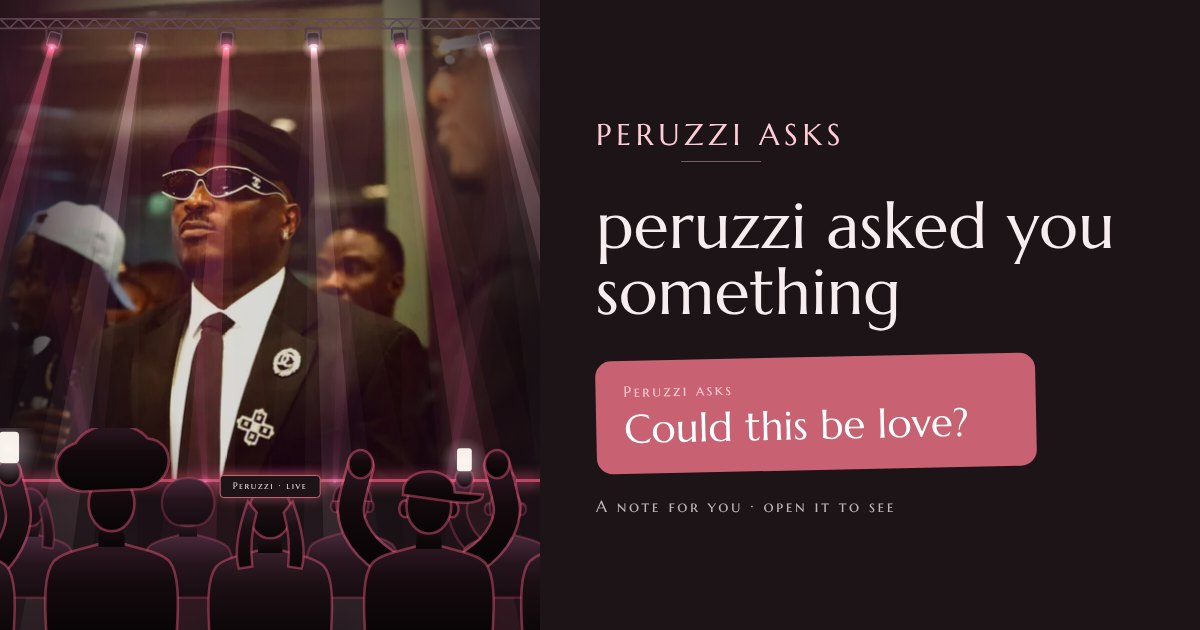
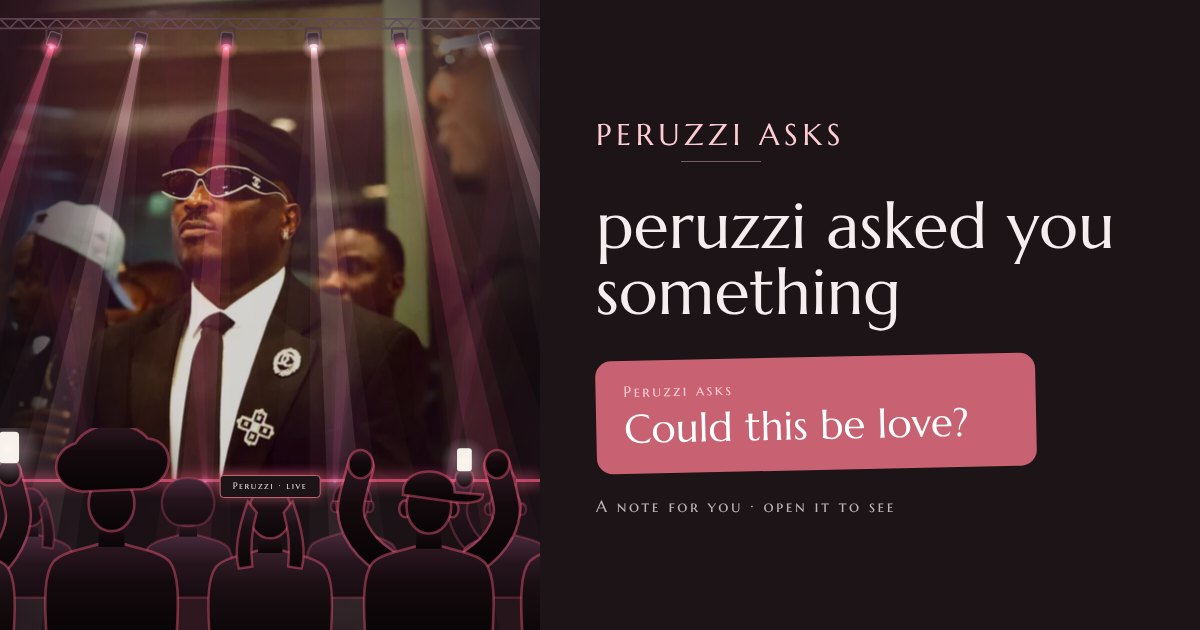
The lights keep to the song's beat, whatever the move
- The beat grid, measured again: 103 BPM with the first beat at 0.341 s. The old one
  (102.97 BPM, 0.277 s) was timed from the start of each analysis window rather than its
  middle, so the lights ran 50-65 ms ahead of the song. The drums now land within 2 ms
  of the grid through the whole clip.
- The song's clock is smoothed between the audio element's readings, and shared by the
  crowd and the lights.
- Every move is a place for each head on every beat, so the heads land on the beat
  however the moves change: a swing eases into the next beat's place, a snap whips
  across to land on it. Seven moves, changing on a bar's first beat; every beat is the
  brightest moment.
- The song's shape: a hit of white where each section starts, the beams closing on
  Peruzzi and going dark for the break before the drop, and the drop hitting hardest.
- Sending a note with its card no longer races the card being drawn again: the card
  was redrawn 2.6 s after every note (a wrong key), and the share now waits a moment
  for a card still being drawn.
- Tests check the lights land on the beat and keep the song's time; README updated.

Claude-Session: https://claude.ai/code/session_0181Giyin99RTao5ZYeujQcC

diff --git a/apps/web/src/components/LightRig.tsx b/apps/web/src/components/LightRig.tsx
@@ -1,5 +1,5 @@
 import { RefObject, useEffect, useRef } from 'react';
-import { beatAt } from '../lib/beat';
+import { beatAt, BREAK, inBreak, partAt, SECTIONS } from '../lib/beat';
 
 type RGB = readonly [number, number, number];
 /** The lights' colours: the site's rose, blush and petal as light (brighter than they are on paper), with a warm white,
@@ -8,7 +8,8 @@ const L: Record<string, RGB> = {
   rose: [255, 92, 134], blush: [255, 196, 210], petal: [255, 150, 176], warm: [255, 230, 205],
   amber: [255, 168, 92], magenta: [228, 72, 160], violet: [150, 110, 255],
 };
-/** A look: the truss's two colours (every other head) and the floor's. A new one every two bars. */
+/** A look: the truss's two colours (every other head) and the floor's. A new one with each part of the song, and every
+ *  two bars within it. */
 const LOOKS: [RGB, RGB, RGB][] = [
   [L.rose, L.blush, L.magenta], [L.warm, L.rose, L.amber], [L.magenta, L.violet, L.rose],
   [L.petal, L.warm, L.rose], [L.amber, L.rose, L.violet], [L.violet, L.blush, L.magenta],
@@ -25,15 +26,25 @@ const TAU = Math.PI * 2;
 const mod = (a: number, n: number) => ((a % n) + n) % n;
 const ease = (k: number) => k * k * (3 - 2 * k);
 const rgba = (c: RGB, a: number) => `rgba(${c[0]},${c[1]},${c[2]},${Math.max(0, Math.min(1, a)).toFixed(3)})`;
+/** a number from 0 to 1 that looks random, the same every time for the same beat and head */
+const hash = (k: number) => { const v = Math.sin(k * 12.9898) * 43758.5453; return v - Math.floor(v); };
+/** the order a chase lights the heads in, a mirrored pair a beat (0 is the outside pair): in, and back out */
+const CHASE = [0, 1, 2, 1];
 
-/** What the heads do, a phrase (four bars) at a time. Each gives a head's swing, in degrees off its aim (to the right
- *  when positive), and how bright it is. */
-const MOVES: ((b: number, i: number, x: number) => [number, number])[] = [
-  (b) => [30 * Math.sin((TAU * b) / 8), 1],                                                   // all together, side to side
-  (b, _i, x) => [(x - 0.5) * 76 * (0.5 - 0.5 * Math.cos((TAU * b) / 4)), 1],                 // fanning out and back, a bar each
-  (b, i) => [(i % 2 ? 1 : -1) * 26 * Math.sin((TAU * b) / 4), 1],                            // crossing over
-  (b, i) => [24 * Math.sin(TAU * (b / 4 - i / 6)), 1],                                       // a wave along the rig
-  (b, i) => [16 * Math.sin((TAU * b) / 16 + i), mod(Math.floor(b), HEADS.length) === i ? 1 : 0.16],   // a chase, a beat each
+/** What the heads do, one move to each part of the song. A move says where each head points on every beat, in degrees
+ *  off its aim (to the right when positive; `mid` is what points it at Peruzzi), and how bright it is from that beat
+ *  on. Every move lands on the beat, however it gets there: a swing leaves one beat's place as the beat goes and
+ *  eases into the next one's right on the next beat, as the crowd sways; a snap holds its place, then whips across to
+ *  land on the next beat. */
+type Move = { at: (n: number, i: number, x: number, mid: number) => number; lit?: (n: number, i: number) => number; snap?: boolean };
+const MOVES: Move[] = [
+  { at: (n) => (n % 2 ? 26 : -26) },                                                            // all together, a side a beat
+  { at: (n, _i, x) => (x - 0.5) * (n % 2 ? 14 : 84), snap: true },                              // fanning out on one and three, in on two and four
+  { at: (n, i) => (i % 2 ? 1 : -1) * (n % 2 ? 24 : -24), lit: (n, i) => ((n + i) % 2 ? 1 : 0.4) },   // crossing over, every other head bright in turn
+  { at: (n, i) => 24 * Math.sin(TAU * (n / 4 - i / 6)) },                                         // a wave rolling along the rig, a step a beat
+  { at: (n, i) => ((n + i) % 2 ? 16 : -16), lit: (n, i) => (CHASE[mod(n, 4)] === Math.min(i, HEADS.length - 1 - i) ? 1 : 0.15), snap: true },   // a chase
+  { at: (n, i, _x, mid) => (mod(n, 4) === 0 ? mid : 56 * hash(n * 7 + i * 13) - 28), snap: true },  // all on Peruzzi on the one, scattered between
+  { at: (n, i, x) => (n % 2 ? (x - 0.5) * 84 : (i % 2 ? 1 : -1) * 22), snap: true },             // fanned out, then crossed, a beat each: the drop
 ];
 
 /** Smoke for the light to show up in: a tile of soft noise, made once. */
@@ -62,8 +73,10 @@ function hazeTile() {
 /** The stage's lights, on two canvases over the photo. Behind, the rig: a truss across the top with its moving heads,
  *  each turned to where its beam goes. In front, the light, added to the picture as light is: the beams from the heads
  *  and from the floor through the haze, the wash on the back wall, the lenses' glare, a warm spot on Peruzzi, and a
- *  hit of white at the top of each phrase. It all follows the song: the heads change what they do every four bars and
- *  the colours every two, swell on each beat and jump on each bar's first. Between songs they drift at half the tempo,
+ *  hit of white where each section of the song starts. It all keeps to the song's beat (see lib/beat.ts): every move
+ *  lands on a beat, every beat is the brightest moment, each bar's first brighter still, and the moves and colours
+ *  change on a bar's first beat, with each part of the song. For the break before the drop, the beams close in on
+ *  Peruzzi and go dark but for a flash on each beat; the drop hits hardest. Between songs they drift at half the tempo,
  *  dimmer; with reduced motion, or `still`, they hold one look. The look's colour is set on `room` as `--rim` and
  *  `--led`, for the crowd's outlines and the stage's LED strip; `kick` makes them all jump (the crash, a tap on the mic). */
 export function LightRig({ room, kick, still = false }: { room: RefObject<HTMLElement>; kick: RefObject<{ at: number; s: number }>; still?: boolean }) {
@@ -105,34 +118,44 @@ export function LightRig({ room, kick, still = false }: { room: RefObject<HTMLEl
     const draw = (now: number) => {
       if (!w || !h) return;
       const s = w / 400;
-      const { beats, live } = beatAt();
+      const { beats, live } = beatAt(now);
       const go = live && moving;
       // the time, in beats: the song's while it plays; a slower clock between songs; one moment held when still
       const b = !moving ? 2 : live ? beats : beats * 0.5;
-      const phrase = Math.floor(b / 16), into = b - phrase * 16;
-      const k = moving ? ease(Math.min(1, into / 2)) : 1;   // two beats to move from the last phrase's moves to this one's
-      const now_ = moving ? MOVES[mod(phrase, MOVES.length)] : MOVES[1], last = moving ? MOVES[mod(phrase - 1, MOVES.length)] : now_;
-      const lookN = moving ? mod(Math.floor(b / 8), LOOKS.length) : 0; const look = LOOKS[lookN];
+      const n = Math.floor(b), f = b - n;   // the beat just gone, and how far on from it
+      const part = partAt(b, go);
+      const lookN = moving ? mod(part.index * 3 + Math.floor((b - part.start) / 8), LOOKS.length) : 0; const look = LOOKS[lookN];
       if (lookN !== lookAt) { lookAt = lookN; const c = `rgb(${look[0].join(' ')})`; box.style.setProperty('--rim', c); box.style.setProperty('--led', c); }
-      const pulse = go ? Math.exp(-mod(b, 1) * 4) : 0;       // each beat
-      const downbeat = go ? Math.exp(-mod(b, 4) * 3) : 0;    // each bar's first
-      const hit = go ? Math.exp(-into * 14) : 0;             // the top of each phrase
+      const dark = go && inBreak(b);                              // the break before the drop
+      const pulse = go ? Math.exp(-f * 5) : 0;                    // each beat
+      const downbeat = go && mod(n, 4) === 0 ? Math.exp(-f * 3) : 0;   // each bar's first
+      // a hit of white where each section starts, the drop hardest
+      const hit = go && SECTIONS.includes(part.start) && b - part.start < 1 ? Math.exp(-(b - part.start) * 12) * (part.start === BREAK[1] ? 1.7 : 1) : 0;
       const kk = kick.current; const boost = moving && kk?.at ? kk.s * Math.exp(-(now - kk.at) / 260) : 0;
-      // the floor lights come in every other phrase
-      const odd = (p: number) => (mod(p, 2) ? 1 : 0);
-      const floorOn = moving ? odd(phrase - 1) + (odd(phrase) - odd(phrase - 1)) * k : 0.8;
 
-      // where each head points, and how bright
+      // where each head points on a beat: the move of the part that beat is in (in the break, at Peruzzi)
       const y0 = Math.max(3, h * 0.03), th = Math.max(5, 7 * s), hw = Math.max(7, 9 * s), hh = Math.max(8, 11 * s);
       const pivot = y0 + th + hh * 0.5 + 3 * s;
+      const aim = (x: number) => (0.5 - x) * 36;
+      const mid = (x: number) => (Math.atan2((0.5 - x) * w, h * 0.42 - pivot) * 180) / Math.PI - aim(x);
+      const moveOn = (k: number) => (moving ? MOVES[mod(partAt(k, go).index, MOVES.length)] : MOVES[1]);
+      const target = (k: number, i: number, x: number) => (go && inBreak(k) ? mid(x) : moveOn(k).at(k, i, x, mid(x)));
+      // and on its way to the next beat's place: a swing or a snap, as the next beat's move goes (into the break, and
+      // into each section, a snap)
+      const snap = !moving ? false : (go && (inBreak(n + 1) || SECTIONS.includes(n + 1))) || !!moveOn(n + 1).snap;
+      const t = !moving ? 0 : snap ? (f < 0.55 ? 0 : ((f - 0.55) / 0.45) ** 3) : 0.5 - 0.5 * Math.cos(Math.PI * f);
       const heads = HEADS.map((x, i) => {
-        const [p1, l1] = last(b, i, x), [p2, l2] = now_(b, i, x);
-        const pan = ((0.5 - x) * 36 + p1 + (p2 - p1) * k) * (Math.PI / 180);
-        const level = l1 + (l2 - l1) * k;
-        const I = !moving ? 0.75 : go ? Math.min(1.25, level * (0.55 + 0.35 * pulse + 0.2 * downbeat) + 0.5 * boost) : level * 0.5 + 0.5 * boost;
+        const from = target(n, i, x), to = target(n + 1, i, x);
+        const pan = (aim(x) + from + (to - from) * t) * (Math.PI / 180);
+        const level = moveOn(n).lit?.(n, i) ?? 1;
+        const I = !moving ? 0.75
+          : !go ? level * 0.5 + 0.5 * boost
+          : dark ? 0.1 + 0.7 * Math.exp(-f * 8)
+          : Math.min(1.25, level * (0.5 + 0.45 * pulse + 0.2 * downbeat) + 0.5 * boost);
         const dx = Math.sin(pan), dy = Math.cos(pan);
         return { cx: x * w, pan, dx, dy, ox: x * w + dx * hh * 0.55, oy: pivot + dy * hh * 0.55, I, c: i % 2 ? look[1] : look[0] };
       });
+      if (import.meta.env.DEV) (light as any).__frame = { b, live: go, pans: heads.map((hd) => hd.pan), lit: heads.map((hd) => hd.I) };
 
       // the rig: the truss, each head hanging in its yoke, turned to its beam, its lens lit
       r.setTransform(dpr, 0, 0, dpr, 0, 0); r.clearRect(0, 0, w, h * RIG);
@@ -155,16 +178,22 @@ export function LightRig({ room, kick, still = false }: { room: RefObject<HTMLEl
       l.setTransform(dpr, 0, 0, dpr, 0, 0);
       l.globalCompositeOperation = 'source-over'; l.clearRect(0, 0, w, h);
       l.globalCompositeOperation = 'lighter';
-      const wash = !moving ? 0.2 : 0.16 + 0.14 * pulse + 0.08 * downbeat + 0.15 * boost;
+      const wash = !moving ? 0.2 : dark ? 0.04 : 0.16 + 0.14 * pulse + 0.08 * downbeat + 0.15 * boost;
       glow(w * 0.14, h * 0.02, w * 0.62, look[0], wash);
       glow(w * 0.86, h * 0.02, w * 0.62, look[1], wash);
       for (const hd of heads) beam(hd.ox, hd.oy, hd.dx, hd.dy, h * 1.3, 2.2 * s, hd.c, hd.I);
+      // the floor lights, in every other part and for the drop: leaning across each other a beat at a time, every other
+      // one bright in turn
       const floorY = h * 0.765;
+      const floorOn = !moving ? 0.8 : dark ? 0 : mod(part.index, 2) || (go && part.start === BREAK[1]) ? 1 : 0;
+      const sway = (k: number, j: number) => (moving ? ((k + j) % 2 ? 12 : -12) : 0);
+      const tf = moving ? 0.5 - 0.5 * Math.cos(Math.PI * f) : 0;
       const floor = FLOOR.map((x, j) => {
-        const lean = ((x - 0.5) * 30 + (moving ? 14 * Math.sin(TAU * (b / 8 + j * 0.25)) : 0)) * (Math.PI / 180);
-        return { x: x * w, dx: Math.sin(lean), dy: -Math.cos(lean), I: floorOn * (go ? 0.42 + 0.3 * pulse : 0.4) + 0.3 * boost };
+        const lean = ((x - 0.5) * 30 + sway(n, j) + (sway(n + 1, j) - sway(n, j)) * tf) * (Math.PI / 180);
+        const I = floorOn * (go ? (mod(n + j, 2) ? 0.85 : 0.35) * (0.45 + 0.55 * pulse) : 0.4) + 0.3 * boost;
+        return { x: x * w, dx: Math.sin(lean), dy: -Math.cos(lean), I };
       });
-      for (const f of floor) if (f.I > 0.01) beam(f.x, floorY, f.dx, f.dy, h * 0.95, 1.8 * s, look[2], f.I * 0.7);
+      for (const fl of floor) if (fl.I > 0.01) beam(fl.x, floorY, fl.dx, fl.dy, h * 0.95, 1.8 * s, look[2], fl.I * 0.7);
       // the haze the beams show up in, drifting
       if (haze) {
         try { haze.setTransform(new DOMMatrix([2, 0, 0, 2, -mod(now * 0.012, 512), -mod(now * 0.004, 512)])); } catch {}
@@ -172,9 +201,9 @@ export function LightRig({ room, kick, still = false }: { room: RefObject<HTMLEl
         l.globalCompositeOperation = 'lighter';
       }
       for (const hd of heads) flare(hd.ox, hd.oy, 9 * s, hd.c, Math.min(1, hd.I));
-      for (const f of floor) if (f.I > 0.01) flare(f.x, floorY, 6 * s, look[2], Math.min(1, f.I));
-      // the warm spot on Peruzzi
-      glow(w * 0.5, h * 0.4, w * 0.3, L.warm, 0.07 + 0.04 * pulse, 1.25);
+      for (const fl of floor) if (fl.I > 0.01) flare(fl.x, floorY, 6 * s, look[2], Math.min(1, fl.I));
+      // the warm spot on Peruzzi, alone in the break
+      glow(w * 0.5, h * 0.4, w * 0.3, L.warm, dark ? 0.12 + 0.12 * pulse : 0.07 + 0.04 * pulse, 1.25);
       // a hit of white
       const white = 0.2 * hit + 0.16 * boost;
       if (white > 0.005) { l.fillStyle = `rgba(255,238,226,${Math.min(0.5, white).toFixed(3)})`; l.fillRect(0, 0, w, h); }

diff --git a/apps/web/src/lib/beat.ts b/apps/web/src/lib/beat.ts
@@ -1,18 +1,52 @@
 import { RefObject, useEffect } from 'react';
 import { sound } from './sound';
 
-/** Inferno's beat, measured from the song file (public/media/audio/inferno.mp3): 102.97 beats a minute, the first at
- *  0.277 s, steady through the whole clip. Measure again if the file changes. */
-export const BPM = 102.97;
-export const FIRST_BEAT = 0.277;
+/** Inferno's beat, measured from the song file (public/media/audio/inferno.mp3): 103 beats a minute, the first at
+ *  0.341 s, steady through the whole clip (its drums land within 2 ms of it from start to finish). Measure again if
+ *  the file changes. */
+export const BPM = 103;
+export const FIRST_BEAT = 0.341;
 const BEAT = 60 / BPM;
+/** The clip's shape, in beats from the first (four to a bar, and beat 0 starts one): where its sections start, which
+ *  the lights hit, and the break before the drop, two beats with little in them but a hit on each, when the lights go
+ *  dark. Measure these again too if the file changes. */
+export const SECTIONS = [8, 32, 48, 64, 68];
+export const BREAK: readonly [number, number] = [66, 68];
 
-/** Where the song is, in beats from its first, and whether that's the song's own time: while it isn't playing, a clock
- *  at its tempo stands in. */
-export function beatAt() {
-  const t = sound.songTime();
-  return t != null ? { beats: (t - FIRST_BEAT) / BEAT, live: true } : { beats: performance.now() / 1000 / BEAT, live: false };
+/** The song's clock, smoothed. An audio element's time can move in steps, so between its readings the frame clock
+ *  carries it on, each new reading nudging it back on course; a reading out by more than a few hundredths (the loop
+ *  back to the start, a seek) moves it straight there, and a song stuck on the network holds it where it stopped. */
+let clock: { raw: number; t: number; at: number } | null = null;
+function songClock(now: number) {
+  const raw = sound.songTime();
+  if (raw == null) { clock = null; return null; }
+  if (!clock) { clock = { raw, t: raw, at: now }; return raw; }
+  const est = clock.t + (now - clock.at) / 1000;
+  if (raw !== clock.raw) {
+    const off = raw - est;
+    clock = Math.abs(off) > 0.12 ? { raw, t: raw, at: now } : { raw, t: est + off * 0.25, at: now };
+    return clock.t;
+  }
+  return Math.min(est, raw + 0.3);
 }
+
+/** Where the song is at `now` (a frame's time), in beats from its first, and whether that's the song's own time: while
+ *  it isn't playing, a clock at its tempo stands in. */
+export function beatAt(now = performance.now()) {
+  const t = songClock(now);
+  return t != null ? { beats: (t - FIRST_BEAT) / BEAT, live: true } : { beats: now / 1000 / BEAT, live: false };
+}
+
+/** The part of the song beat `b` is in, numbered from the start, and the beat it started on: a new part at each of the
+ *  song's sections and every four bars between them. Without the song (`live` false), simply every four bars. */
+export function partAt(b: number, live: boolean) {
+  const p = Math.floor(b / 16);
+  let index = p, start = p * 16;
+  if (live && b >= 0) for (const s of SECTIONS) if (s <= b) { if (s % 16) index++; if (s > start) start = s; }
+  return { index, start };
+}
+/** whether beat `b` of the song is in the break before the drop */
+export const inBreak = (b: number) => b >= BREAK[0] && b < BREAK[1];
 
 /** Keeps the room moving to the song: on `ref`'s element, every frame, `--sa` and `--sb` (how far the crowd leans,
  *  one way on a beat and back the other way on the next, the second group a touch behind the first), `--bob` (how
@@ -24,8 +58,8 @@ export function useBeat(ref: RefObject<HTMLElement>, still = false) {
     const el = ref.current;
     if (!el || still || window.matchMedia('(prefers-reduced-motion: reduce)').matches) return;
     let raf = 0;
-    const frame = () => {
-      const { beats, live } = beatAt();
+    const frame = (now: number) => {
+      const { beats, live } = beatAt(now);
       const amp = live ? 1 : 0.55;
       const lean = (b: number) => Math.cos(Math.PI * b) * 4.5 * amp;
       el.style.setProperty('--sa', `${lean(beats).toFixed(2)}deg`);

diff --git a/apps/web/src/screens/asked/Asked.tsx b/apps/web/src/screens/asked/Asked.tsx
@@ -185,6 +185,13 @@ export default function Asked() {
     if (!k?.file) { say('One moment, Peruzzi is signing it…'); return null; }
     return k.file;
   };
+  /** the card to send with a note: at once if it's drawn, or as soon as it is, waiting a moment at most so the share
+   *  sheet still opens from the tap */
+  const cardSoon = (n: NoteInfo) => {
+    const k = cards.current.get(n.id);
+    if (!k) return Promise.resolve(null);
+    return k.file ? Promise.resolve(k.file) : Promise.race([k.ready.catch(() => null), new Promise<null>((r) => window.setTimeout(() => r(null), 700))]);
+  };
   const noteUrl = (n: NoteInfo) => `${location.origin}/q/${n.code}`;
   const actions = {
     onSave: async (n: NoteInfo) => { const f = cardFor(n); if (f) { sound.keepThrough(); const r = await saveFile(f); track('note_save', { how: r }); } },
@@ -222,7 +229,8 @@ export default function Asked() {
         onAsked={(n) => {
           setNotebook((d) => (d && !d.notes.some((k) => k.id === n.id) ? { ...d, left: Math.max(0, d.left - 1), notes: [...d.notes, n] } : d)); store.setNotebook({ id: notebook.id, token: token.current });
           // the cards are drawn once the note has landed: drawing them holds up the phone, and the reading is on
-          window.setTimeout(() => (cards.current.has(`${n.id}:`) ? upload(n) : prepare(n)), 2600);
+          // (one already drawn, for a note sent straight away, is kept: only the square still goes up)
+          window.setTimeout(() => (cards.current.has(n.id) ? upload(n) : prepare(n)), 2600);
         }}
         onNext={next}
         onNotes={out}
@@ -246,7 +254,7 @@ export default function Asked() {
   return (
     <div className="min-h-dvh bg-ink">
       {screen}
-      {send && notebook && <SendSheet open={!!send} onClose={() => setSend(null)} notebook={{ id: notebook.id, token: token.current }} note={send} card={() => cards.current.get(send.id)?.file ?? null} nameplate={cfg.nameplate}
+      {send && notebook && <SendSheet open={!!send} onClose={() => setSend(null)} notebook={{ id: notebook.id, token: token.current }} note={send} card={() => cardSoon(send)} nameplate={cfg.nameplate}
         defaultName={notebook.name || store.name() || ''} onName={(nm) => setNotebook((d) => (d ? { ...d, name: d.name || nm } : d))} email={cfg.email}
         onSent={() => setNotebook((d) => (d ? { ...d, notes: d.notes.map((k) => (k.id === send.id ? { ...k, sent: true } : k)) } : d))} />}
       <MusicPill />

diff --git a/apps/web/src/screens/asked/SendSheet.tsx b/apps/web/src/screens/asked/SendSheet.tsx
@@ -18,8 +18,8 @@ const mask = (e: string) => { const [u, d] = e.split('@'); return `${u.slice(0, 
  *  on the address this page is on, so it opens wherever the site does. */
 export function SendSheet({ open, onClose, notebook, note, card, nameplate, defaultName, onName, onSent, email }: {
   open: boolean; onClose: () => void; notebook: { id: string; token: string }; note: NoteInfo;
-  /** the note's story card, once it's drawn (it goes with the link) */
-  card: () => File | null;
+  /** the note's story card (it goes with the link), or nothing if it isn't drawn in time */
+  card: () => Promise<File | null>;
   nameplate: string; defaultName: string; onName: (n: string) => void; onSent: () => void; email: boolean;
 }) {
   const [step, setStep] = useState<Step>('names');
@@ -59,7 +59,7 @@ export function SendSheet({ open, onClose, notebook, note, card, nameplate, defa
         <div className="mt-5 flex flex-col gap-2.5">
           {/* the card and the link together, through the phone's share sheet (just the link where it can't take a picture) */}
           <button onClick={async () => {
-            sound.keepThrough(); const r = await shareFile(card(), words(), link);
+            sound.keepThrough(); const r = await shareFile(await card(), words(), link);
             track('note_share', { via: 'native', how: r }); if (r === 'copied') setMsg('Copied. Paste it to them anywhere.');
           }} className="flex min-h-[54px] items-center justify-center gap-2.5 rounded-xl bg-rose text-[17px] font-semibold text-white transition-colors hover:bg-rose-deep"><ShareNetworkIcon size={21} weight="bold" /> Send it with the card</button>
           <a href={`https://wa.me/?text=${encodeURIComponent(text(link))}`} target="_blank" rel="noreferrer" onClick={() => track('note_share', { via: 'whatsapp' })}

diff --git a/README.md b/README.md
@@ -30,8 +30,11 @@ There's no front page: the site opens on a note, ready to write. Each screen has
 Back from a note's page is your notes, and back from your notes is a new note.
 
 - **The stage.** Peruzzi in the light, seen from the back of the room: a truss across the top with six moving heads, four lights on the stage floor, the stage's front edge with its LED strip and nameplate ("Peruzzi · live"), and the crowd in front: two rows of people seen from behind (afros, braids, a gele, a cap, a bun), shoulders and arms, a few phones up, outlined in whatever colour the lights are. The show opens with the room settling and a finger on the mic, twice ("Make some noise! Who's on your mind tonight?" when the stage has a voice). The crowd reacts out loud ("Awww.", "Ooooh.", laughter, a cheer) as the notes land.
-  - **The light show** (`apps/web/src/components/LightRig.tsx`, two canvases over the photo). The heads hang in their yokes and turn to where their beams go: narrow beams with soft edges through a drifting haze, brightest at the lens, with a glare on each lens, a wash on the back wall, and a warm spot on Peruzzi. Every four bars the heads change what they do (sweeping together, fanning out and back, crossing over, a wave along the rig, a chase); every two bars the colours change (rose, blush and petal as light, against warm white, amber, magenta or violet), and the LED strip and the crowd's outlines change with them. The beams swell on every beat, jump on each bar's first, and a hit of white opens each phrase; the floor lights come in every other phrase. The drummer's crash and the mic taps make it all jump. Before the song starts, the lights drift at half the tempo, dimmer; with reduced motion, they hold one look.
-  - **On the beat.** The crowd sways left and right with the song: a lean one way on each beat and back the other way on the next, a little dip on the beat, the back row a touch behind the front. The beat is the song's own: `apps/web/src/lib/beat.ts` reads where the song is (102.97 beats a minute, the first at 0.277 s, measured from `inferno.mp3`; measure again if the file changes), for the crowd and the lights alike. Before the song starts, the crowd keeps its tempo, more gently; with reduced motion, it stands still.
+  - **The light show** (`apps/web/src/components/LightRig.tsx`, two canvases over the photo). The heads hang in their yokes and turn to where their beams go: narrow beams with soft edges through a drifting haze, brightest at the lens, with a glare on each lens, a wash on the back wall, and a warm spot on Peruzzi. The colours change every two bars (rose, blush and petal as light, against warm white, amber, magenta or violet), and the LED strip and the crowd's outlines change with them.
+  - **Always on the beat, whatever the move.** Every move is a place for each head on every beat, so however the moves change, the heads land on the beat: a *swing* leaves one beat's place as the beat goes and eases into the next one's right on the next beat (with the crowd's sway); a *snap* holds, then whips across to land on the next beat. There are seven moves (all together a side a beat; fanning out on one and three and in on two and four; crossing over, every other head bright in turn; a wave rolling along the rig; a chase from the outside in; every beam on Peruzzi on the one, scattered between; fanned out, then crossed), one to each part of the song, changing on a bar's first beat. Every beat is the lights' brightest moment, each bar's first brighter still; the floor lights lean across each other a beat at a time, in every other part.
+  - **The song's shape.** A new part starts at each of the song's sections and every four bars between them, with a hit of white where a section starts. For the two-beat break before the drop, the beams close in on Peruzzi and go dark but for a flash on each beat, his spot alone; the drop hits hardest.
+  - The drummer's crash and the mic taps make it all jump. Before the song starts, the lights drift at half the tempo, dimmer; with reduced motion, they hold one look.
+  - **On the beat.** The crowd sways left and right with the song: a lean one way on each beat and back the other way on the next, a little dip on the beat, the back row a touch behind the front. The beat is the song's own, and the crowd and the lights share it. `apps/web/src/lib/beat.ts` holds it, measured from `inferno.mp3`: 103 beats a minute, the first at 0.341 s (the drums land within 2 ms of it through the whole clip), four to a bar from the first; the sections starting on beats 8, 32, 48, 64 and 68; the break on beats 66 and 67. Measure them again if the file changes. It follows where the song is, smoothed between the audio element's readings, so the lights keep the song's time to within a few milliseconds. Before the song starts, the crowd keeps its tempo, more gently; with reduced motion, it stands still.
 - **A note, in one sentence**, on the note's paper:
 
   > Dear \_\_\_\_\_, you \_\_\_\_\_\_\_\_\_\_.
@@ -232,7 +235,7 @@ npm i -D playwright        # once, if it isn't installed
 npm run e2e                # or one at a time: node apps/web/scripts/stage.e2e.mjs | send.e2e.mjs | admin.e2e.mjs
 ```
 
-- **stage.** The site opening straight on a note, the stage and its nameplate, the song starting as it opens, the rig's lights up and moving, the sentence and its two blanks with nothing to tick, the suggestions (never something sweet), the count and its limit, an empty note turned back, the read-live line, the button staying at the foot of the screen, the song (leaving and coming back, back from streaming), the reading (the band, Peruzzi and the crowd, the lights coming up), the note (its headline, what they did as Peruzzi tells it, his question, no stamp, nothing to tick, the song in its corner), next steps in order, the story card, posting, the square card and the link preview (sending people on by a relative address), the public page (never the number typed), your notes and the back buttons, the tracklist and its email, a note to a thing, a note describing real harm getting help, and, in a browser that wants a tap first, the "Tap to play the music" pill (on opening, and again when the song is stopped).
+- **stage.** The site opening straight on a note, the stage and its nameplate, the song starting as it opens, the rig's lights up and moving, on the song's time (every move landing on a beat, every beat their brightest moment, dark for the break and hitting the drop), the sentence and its two blanks with nothing to tick, the suggestions (never something sweet), the count and its limit, an empty note turned back, the read-live line, the button staying at the foot of the screen, the song (leaving and coming back, back from streaming), the reading (the band, Peruzzi and the crowd, the lights coming up), the note (its headline, what they did as Peruzzi tells it, his question, no stamp, nothing to tick, the song in its corner), next steps in order, the story card, posting, the square card and the link preview (sending people on by a relative address), the public page (never the number typed), your notes and the back buttons, the tracklist and its email, a note to a thing, a note describing real harm getting help, and, in a browser that wants a tap first, the "Tap to play the music" pill (on opening, and again when the song is stopped).
 - **send.** The link on the page's own address, sent with the note's card through the share sheet, on WhatsApp or copied, its folded preview, the note marked sent, the person asked (on a phone with a notebook of its own) arriving with the song playing, the note folded until opened, the writer seeing it seen, the note opened with nothing to tick, her next steps, writing back, the writer's notes catching up by themselves, and by email: the code, the note (what they did, Peruzzi's question, the song; flat colour), the weekly limit, and the opt-out.
 - **admin.** Signing in, the status line, the insights (no answers), the costs and a projection, the stage's settings, pausing the stage (with notes already sent still opening), the emails, and the notes, with hiding one from its public link.
 
